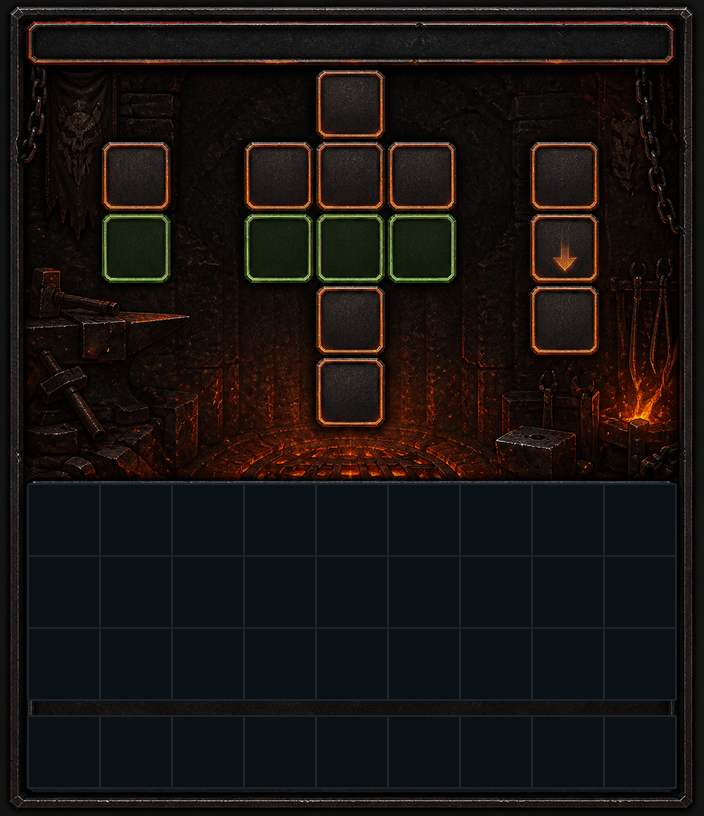
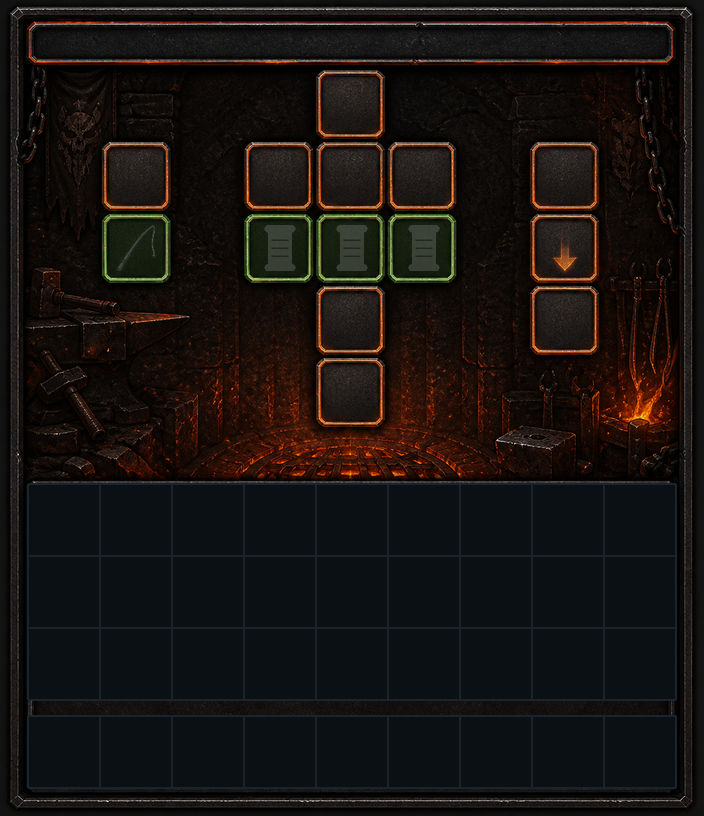
강화 입력칸에 회색 실루엣 — 뭘 넣는 자리인지 보이게
빈 초록칸만 넷이면 어디에 뭘 넣는지 알 수 없다. 낚싯대칸엔 카탈로그 아이콘
(초보 낚싯대), 주문서칸엔 두루마리 모양을 깔아 둔다.

★주문서는 리소스팩에 아이콘이 없다 — 캐시샵이 상승권·방지권·감소권 10종을
전부 바닐라 종이로 쓰고 있어서 가져올 그림이 없었다. 그래서 직접 그렸다.
전용 아이콘이 생기면 SCROLL_ICON 에 파일명만 넣으면 된다.

화살표 이동(34→25)도 일회성 스크립트에서 이 파일로 옮겨 재현 가능하게 했다.

diff --git a/gui-forge/prep_enhance_bg.py b/gui-forge/prep_enhance_bg.py
@@ -1,0 +1,108 @@
+#!/usr/bin/env python3
+"""강화 배경 손질 — 납품본(bg_source_rebuild.png) → bg_source.png.
+
+납품본을 그대로 못 쓰는 이유 두 가지:
+
+1. **▼ 화살표가 34번(강화 후)에 그려져 왔다.** 34는 강화 결과 아이템이 올라가는
+   칸이라 화살표가 그 밑에 깔린다. 25번(중간)으로 옮긴다 — 두 칸이 같은 소켓이라
+   차분으로 화살표만 떼어낼 수 있다. 흐름은 16(강화 전) → 25(▼) → 34(강화 후).
+
+2. **입력칸이 비어 있으면 뭘 넣는 자리인지 안 보인다.** 회색 실루엣을 깔아 둔다.
+   낚싯대는 카탈로그 아이콘(초보 낚싯대)을 쓰고, 주문서는 **리소스팩에 아이콘이
+   없어서**(캐시샵이 바닐라 종이를 그대로 쓴다) 두루마리 모양을 그려 넣는다.
+   → 주문서 전용 아이콘이 생기면 SCROLL_ICON 에 경로만 넣으면 된다.
+"""
+import hashlib
+import os
+
+from PIL import Image, ImageChops, ImageDraw, ImageFilter
+
+HERE = os.path.dirname(os.path.abspath(__file__))
+SRC = os.path.join(HERE, "src", "enhance")
+RP_ICONS = os.path.expanduser("~/development/barkan-resourcepack/assets/minecraft/textures/item/barkan_icon")
+
+S, GX, GY, C = 4, 7, 17, 18
+SLOT_ROD, SLOT_ARROW_FROM, SLOT_ARROW_TO = 19, 34, 25
+SCROLL_SLOTS = (21, 22, 23)
+GHOST_ALPHA = 84          # 0~255. 넣을 자리는 알려주되 진짜 아이템과 헷갈리면 안 된다
+GHOST_SIZE = 46           # 72px 칸 안에서 차지할 크기
+SCROLL_ICON = None        # 주문서 전용 아이콘이 생기면 여기에 파일명
+
+
+def cell(slot):
+    r, c = divmod(slot, 9)
+    x0, y0 = (GX + C * c) * S, (GY + C * r) * S
+    return (x0, y0, x0 + C * S, y0 + C * S)
+
+
+def sha10(*parts):
+    return hashlib.sha1("\0".join(parts).encode("utf-8")).hexdigest()[:10]
+
+
+def to_ghost(im):
+    """회색 실루엣으로 — 색을 빼고 어둡게 눌러 '비어 있는 자리'로 읽히게."""
+    g = im.convert("LA").convert("RGBA")
+    px = g.load()
+    for y in range(g.height):
+        for x in range(g.width):
+            r, _, _, a = px[x, y]
+            v = int(r * 0.55 + 40)
+            px[x, y] = (v, v, v, min(a, GHOST_ALPHA) if a else 0)
+    return g
+
+
+def scroll_glyph(size):
+    """두루마리 실루엣 — 리소스팩에 주문서 아이콘이 없어서 직접 그린다.
+    ★세로로 길게. 가로로 퍼지면 두루마리가 아니라 리본/현수막으로 보인다.
+    ★흰색으로 그리면 낚싯대 실루엣보다 훨씬 밝아 혼자 튄다 — 중간 회색으로 그린다."""
+    im = Image.new("RGBA", (size, size), (0, 0, 0, 0))
+    d = ImageDraw.Draw(im)
+    body, roll = int(size * 0.52), max(3, size // 12)
+    x0, x1 = (size - body) // 2, (size + body) // 2
+    ink = (170, 170, 170, 255)
+    d.rectangle([x0, roll, x1, size - roll], fill=ink)
+    for cy in (roll, size - roll):
+        d.rounded_rectangle([x0 - roll, cy - roll, x1 + roll, cy + roll], radius=roll, fill=ink)
+    for i in range(3):
+        y = roll * 2 + int((size - roll * 4) * (i + 1) / 4)
+        d.line([x0 + roll, y, x1 - roll, y], fill=(40, 40, 40, 170), width=max(1, size // 26))
+    return to_ghost(im)
+
+
+def main():
+    im = Image.open(os.path.join(SRC, "bg_source_rebuild.png")).convert("RGBA")
+
+    b_from, b_to = cell(SLOT_ARROW_FROM), cell(SLOT_ARROW_TO)
+    c_from, c_to = im.crop(b_from), im.crop(b_to)
+    diff = ImageChops.difference(c_to.convert("RGB"), c_from.convert("RGB")).convert("L")
+    mask = diff.point(lambda v: 0 if v < 18 else min(255, (v - 18) * 5))
+    mask = mask.filter(ImageFilter.MaxFilter(3)).filter(ImageFilter.GaussianBlur(0.7))
+    arrow = c_from.copy(); arrow.putalpha(mask)
+    im.paste(c_to, (b_from[0], b_from[1]))          # 34는 깨끗한 소켓으로
+    im.alpha_composite(arrow, (b_to[0], b_to[1]))   # 25에 화살표만
+
+    rod_file = os.path.join(RP_ICONS, f"catalog_rod_{sha10('낚싯대', '초보 낚싯대')}.png")
+    rod = to_ghost(Image.open(rod_file).convert("RGBA")) if os.path.exists(rod_file) else None
+    if rod is None:
+        print("  ! 낚싯대 아이콘을 못 찾음 — 실루엣 생략")
+    scroll = (to_ghost(Image.open(os.path.join(RP_ICONS, SCROLL_ICON)).convert("RGBA"))
+              if SCROLL_ICON else scroll_glyph(GHOST_SIZE * 2))
+
+    for slot, art in [(SLOT_ROD, rod)] + [(s, scroll) for s in SCROLL_SLOTS]:
+        if art is None:
+            continue
+        x0, y0, x1, y1 = cell(slot)
+        k = GHOST_SIZE / max(art.size)
+        w, h = max(1, round(art.width * k)), max(1, round(art.height * k))
+        im.alpha_composite(art.resize((w, h), Image.Resampling.LANCZOS),
+                           (x0 + (x1 - x0 - w) // 2, y0 + (y1 - y0 - h) // 2))
+
+    im.putalpha(255)
+    out = os.path.join(SRC, "bg_source.png")
+    im.save(out)
+    print(f"  ▼ {SLOT_ARROW_FROM}→{SLOT_ARROW_TO} · 실루엣 {SLOT_ROD}(낚싯대)"
+          f" {list(SCROLL_SLOTS)}(주문서) → {out}")
+
+
+if __name__ == "__main__":
+    main()
